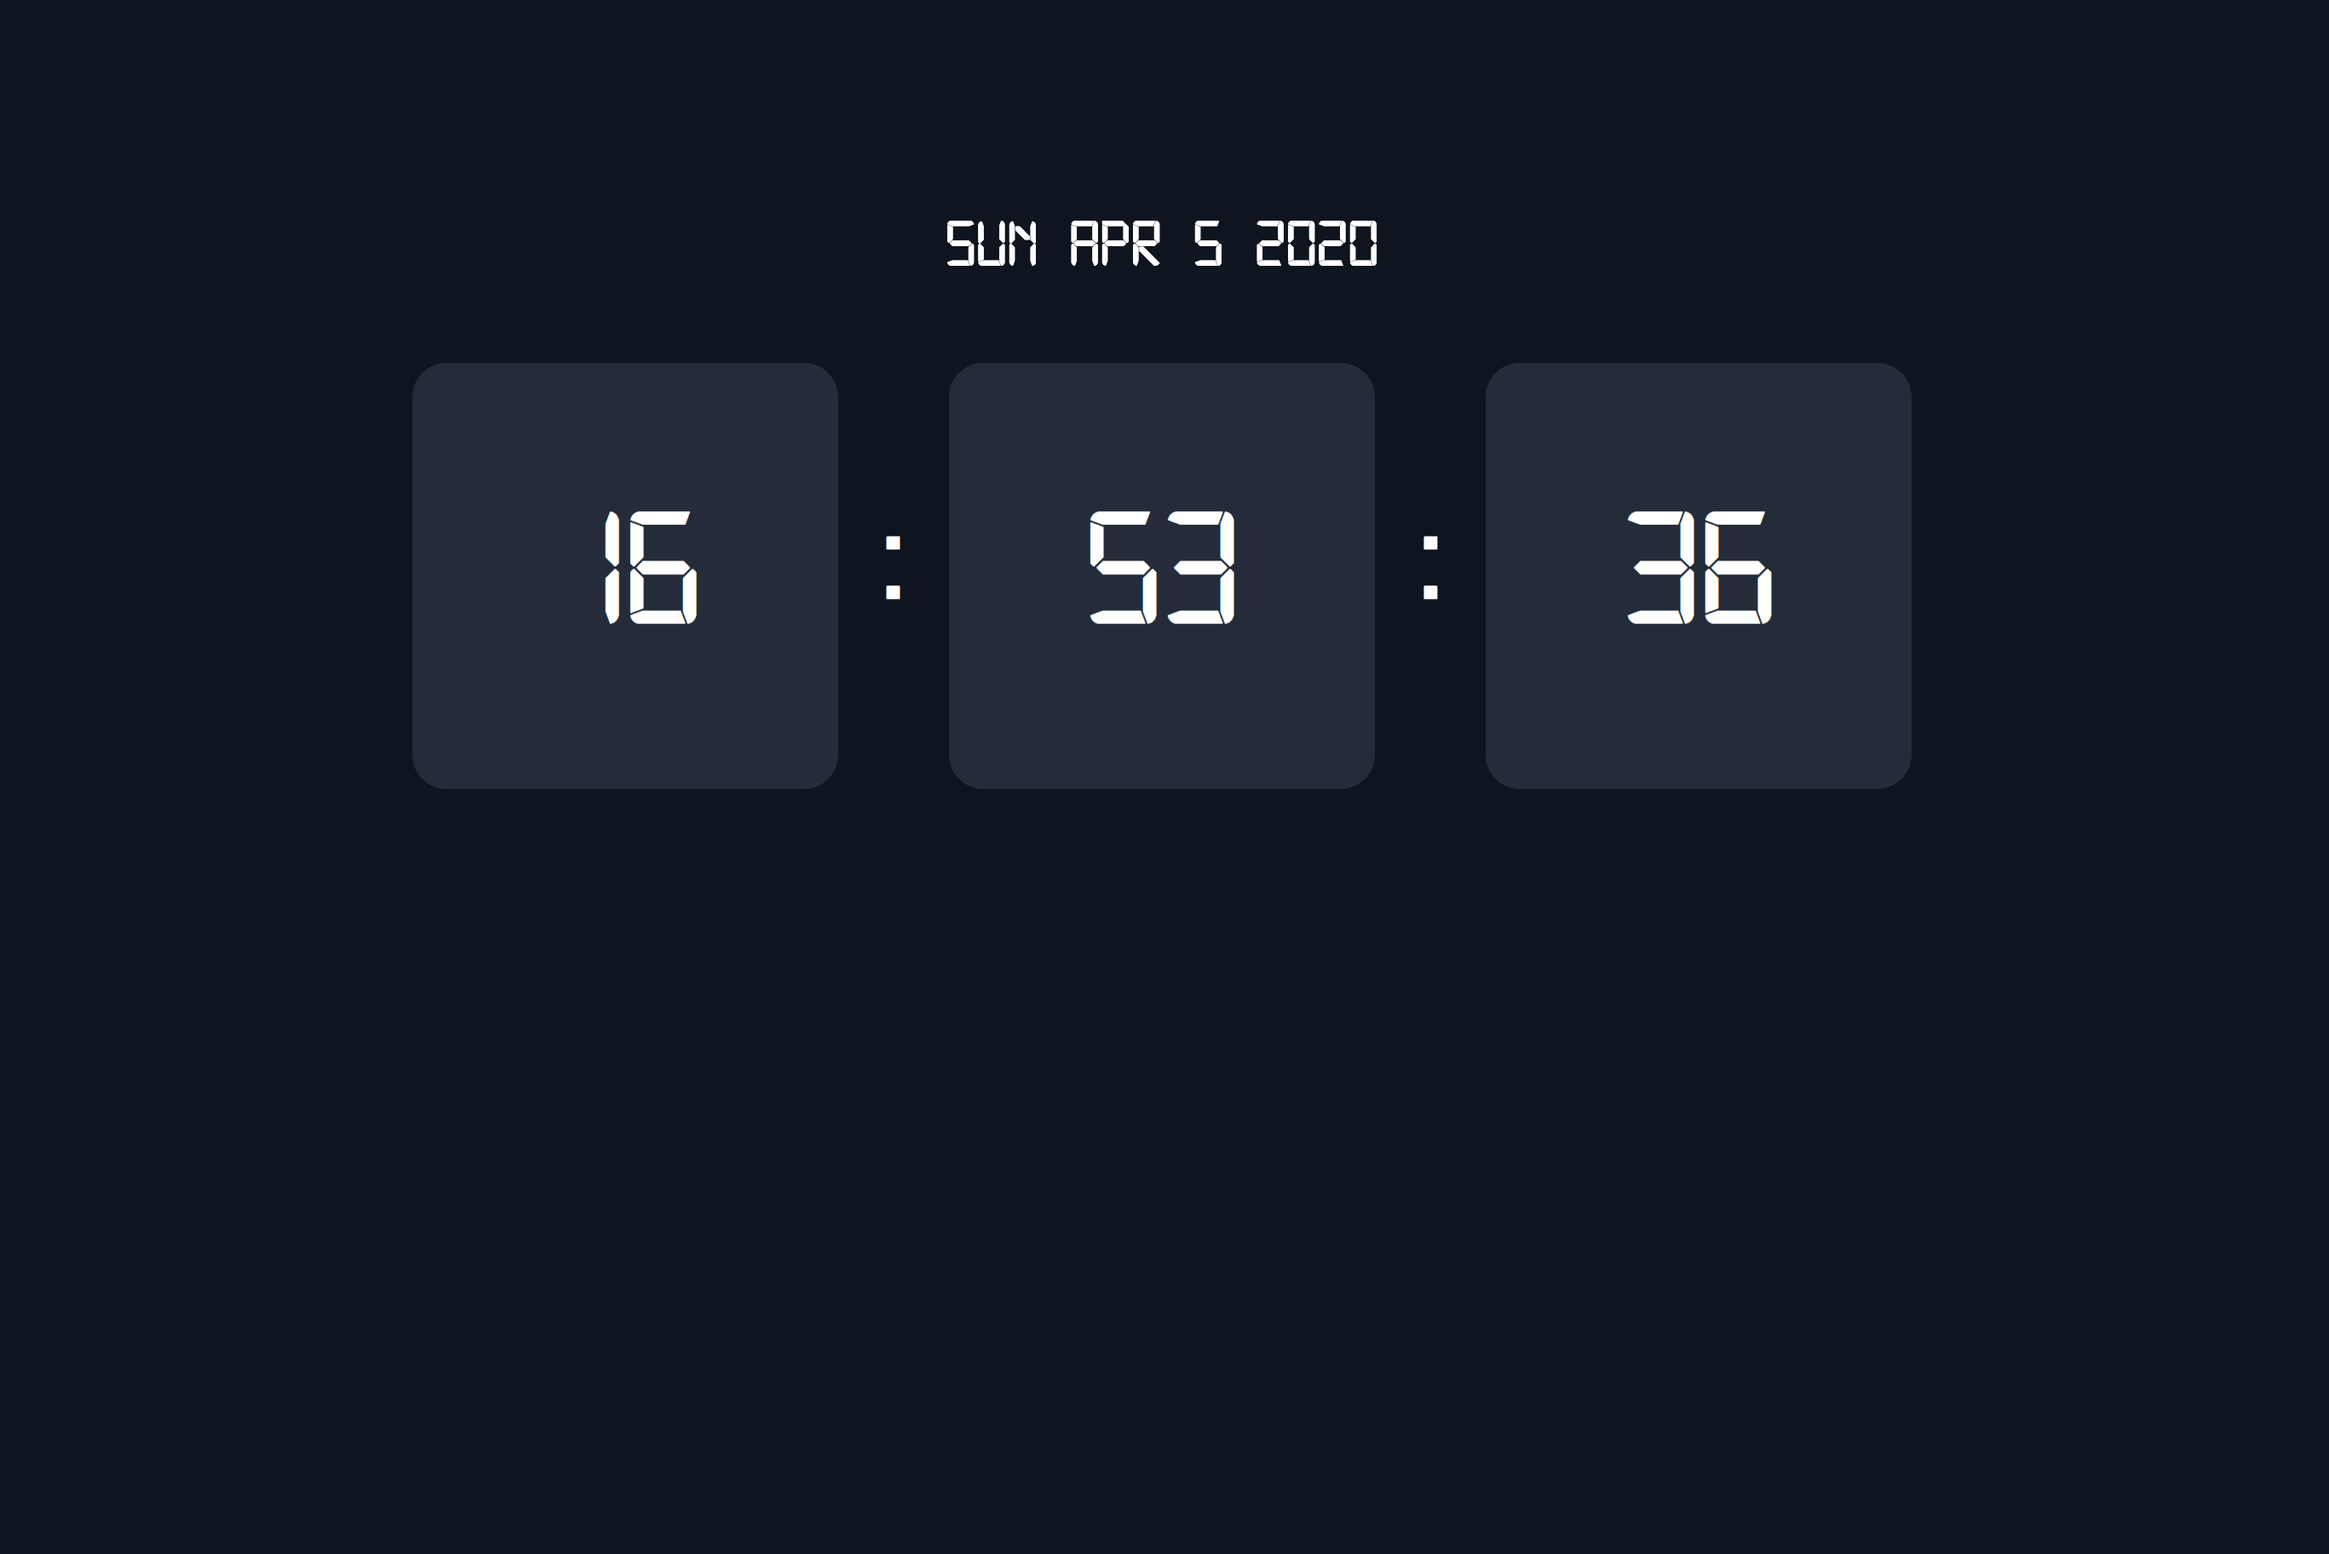
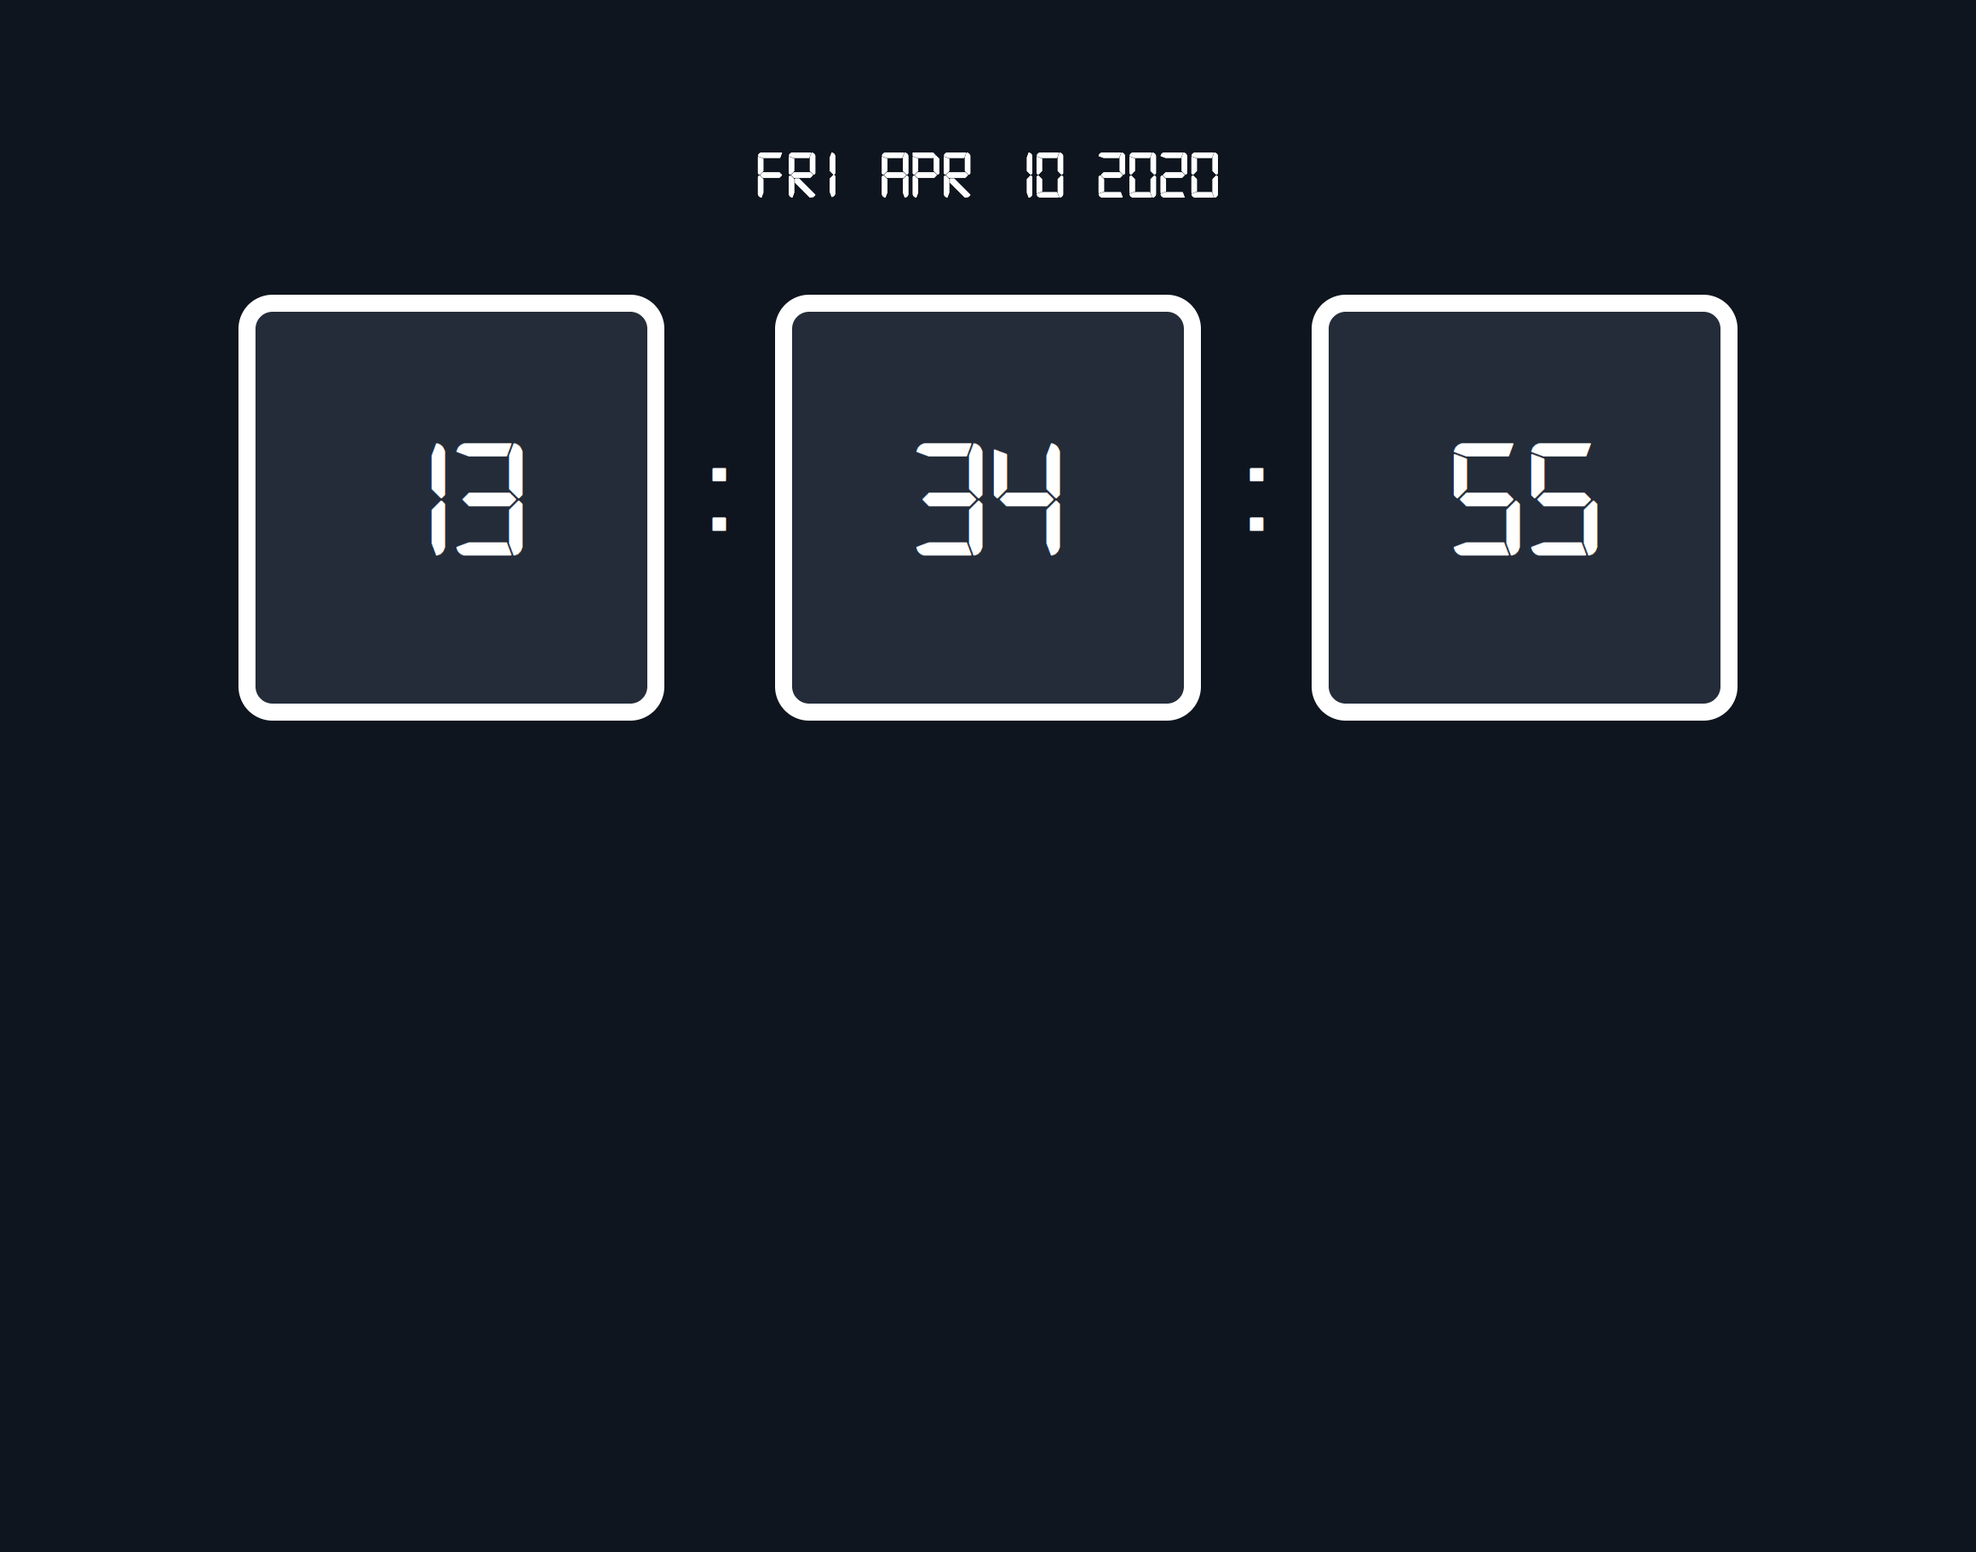
Updated requirements

Changed region(s): [[0.0931, 0.0922, 0.9, 0.5225], [0.4655, 0.2766, 0.5586, 0.3996]]

diff --git a/README.md b/README.md
@@ -11,7 +11,8 @@ Simple vanilla JavaScript clock
 - Background color has to be `#0e151f`
 - Body font size is `40px`
 - Clock number font size is `100px`
-- Clock number box is `2.5em`
+- Clock number box size is `2.5em` by `2.5em`
+- Clock number box has to have a `white` border of `0.1em` and it has be included in the box size
 - Clock number box color is `#222c3a`
 
 ### Logic
@@ -19,9 +20,5 @@ Simple vanilla JavaScript clock
 - You can't change the given HTML index file
 - Updates every second
 - Minutes and seconds have to have a leading `0` if minor than 10
-
-### Bonus
-
-- Do not update date if not needed
 
 ![Clock](app.png)
